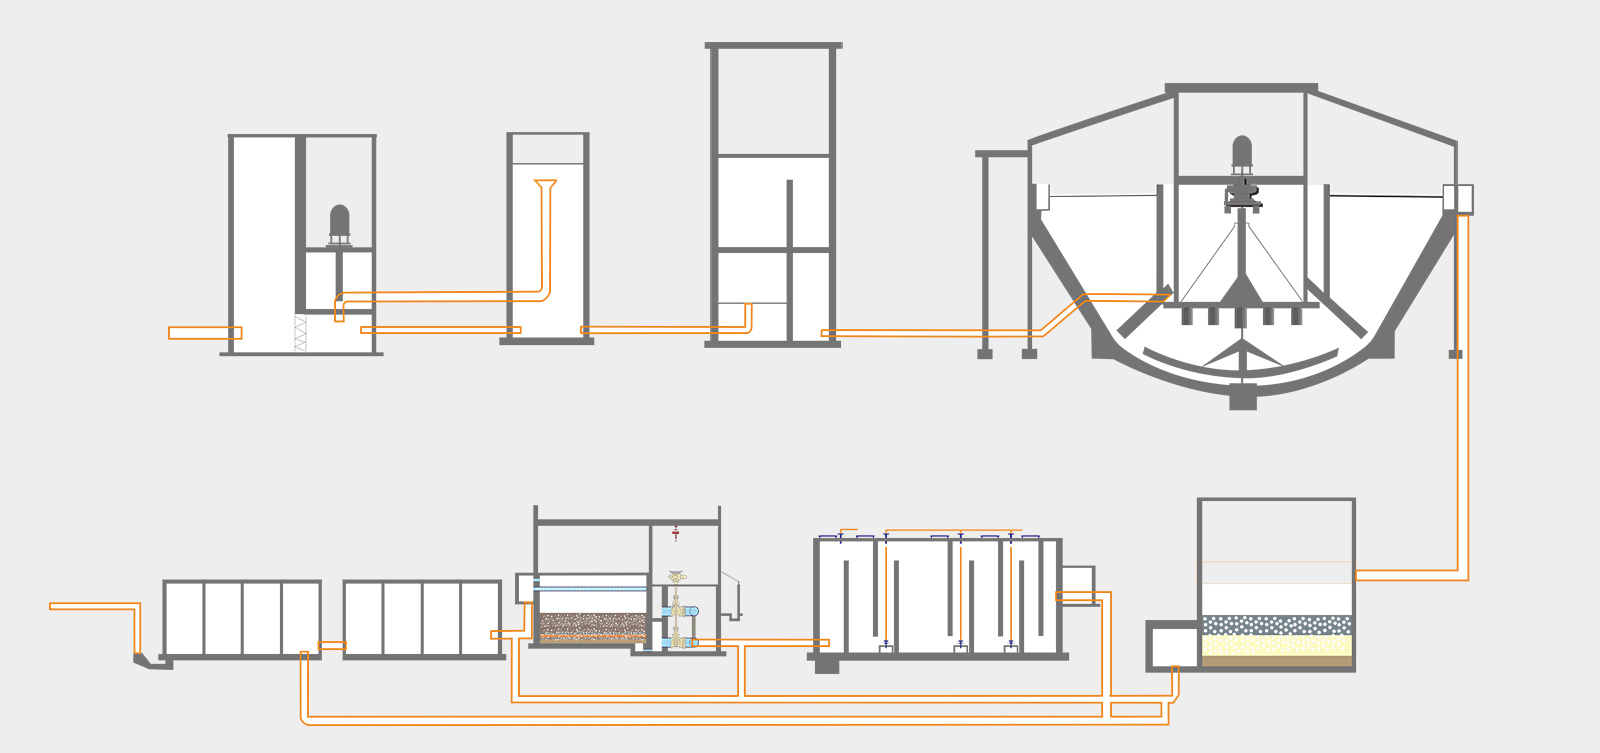
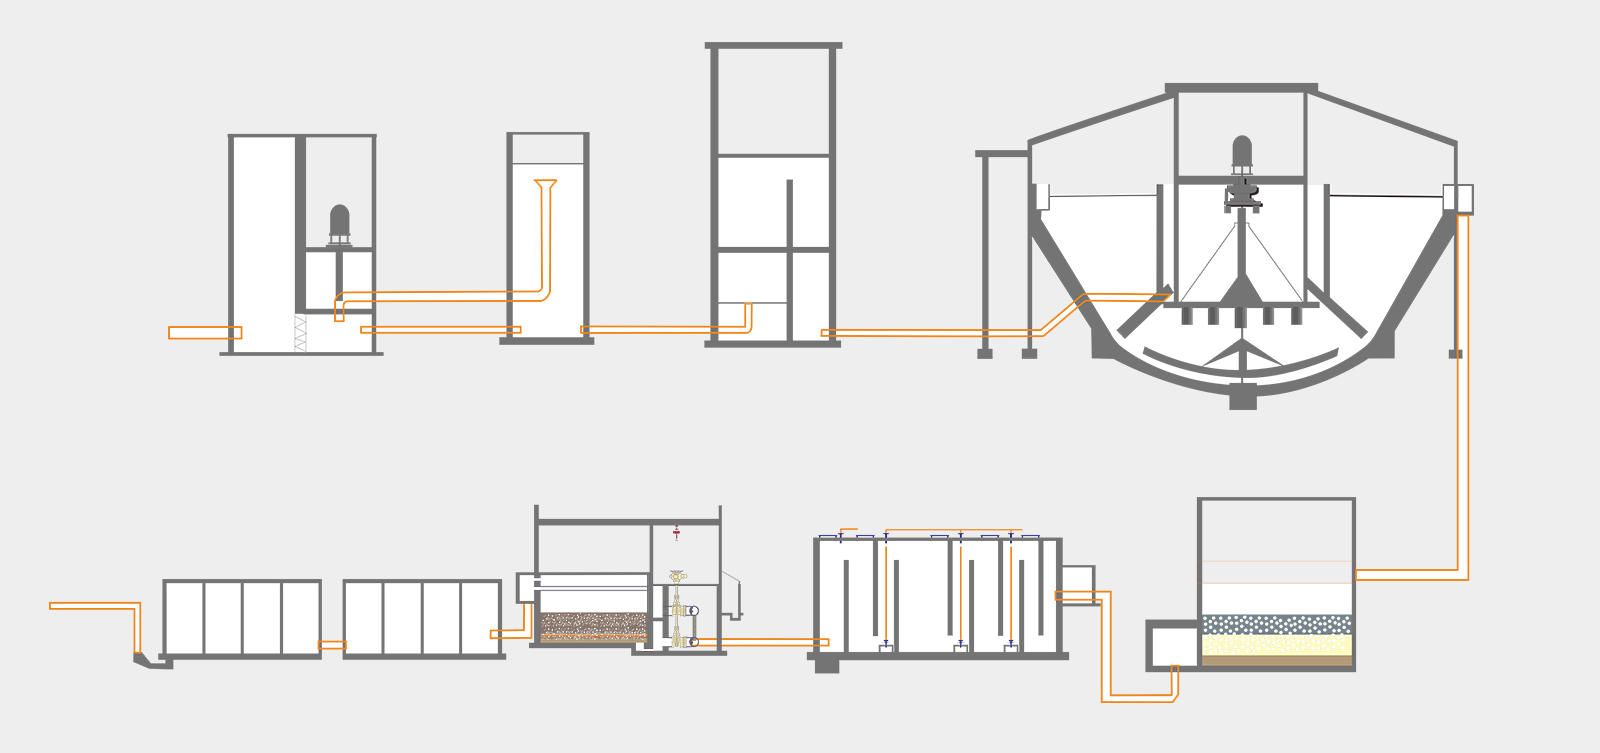
1.各构筑物及老工艺线图片修改； 2.设备维修虹吸滤池方案二动画。

diff --git a/WebRoot/js/fix.js b/WebRoot/js/fix.js
@@ -1224,10 +1224,12 @@ oCanvas.domReady(function () {
         GD35.advance();
 
         if((GD11.state==0)&&(GD1001.state==0)){
-    		
+//            console.log("GD30:");
+//    		console.log(GD30.state);
     		if(GD30.state!=0){
     		GD30.state=2;
     		setFMColorRed("FM018");
+//    		console.log(document.getElementById("FM018").src=='http://localhost:8080/ZLS-ITTC/image/y2-35x37.png');
 
     		document.getElementById("step_3").style.background = "rgba(194,215,245,0.5)";
     		document.getElementById("step_3_result").style.background = "rgba(194,215,245,0.5)";
@@ -1251,13 +1253,14 @@ oCanvas.domReady(function () {
         	//console.log(GD1001.state);
         	if(GD141.state!=0){
         		GD141.state=2;
+        		document.getElementById("step_6").style.background = "rgba(194,215,245,0.5)";
+        		document.getElementById("step_6_result").style.background = "rgba(194,215,245,0.5)";
+        		blinTwice("#step_6");
+        		blinTwice("#step_6_result");
         		}
         	setFMColorRed("FM019");
 
-    		document.getElementById("step_6").style.background = "rgba(194,215,245,0.5)";
-    		document.getElementById("step_6_result").style.background = "rgba(194,215,245,0.5)";
-    		blinTwice("#step_6");
-    		blinTwice("#step_6_result");
+    		
 
     		//GD141.state=2;
     	}
@@ -1276,7 +1279,7 @@ oCanvas.domReady(function () {
         
         if((GD26.state==0)&&(GD27.state==0)){
     		
-    		if(GD13.state!=0){
+    		if(GD13.state==1){
     		GD13.state=2;
     		setFMColorRed("FM017");
 
@@ -1292,34 +1295,35 @@ oCanvas.domReady(function () {
     		//console.log("GD30:");
     		//console.log(GD30.state);
     	}
-        if((GD13.state!=2)&&(GD13.state!=1)){
+        if((GD13.state==0)){//(GD13.state!=2)&&(GD13.state!=1)
         	//console.log(GD1001.state);
-        	if(GD141.state==1){
+        	if((GD141.state==1)){
         		setFMColorRed("FM019");
         		}
-        	if((GD141.state!=0)){
+        	if(document.getElementById("FM019").src=='http://localhost:8080/ZLS-ITTC/image/y2-35x37.png'){
         		GD141.state=2;
         		}
-        	
-        	
+//        	console.log("GD141:");
+//    		console.log(GD141.state);
 
     		document.getElementById("step_6").style.background = "rgba(194,215,245,0.5)";
     		document.getElementById("step_6_result").style.background = "rgba(194,215,245,0.5)";
 
     		//GD141.state=2;
     	}
-        if((GD26.state==1)&&(GD27.state==1)){    		
-    		if(GD13.state!=1)
-    		GD13.state=3;
-    		//console.log("GD30:");
-    		//console.log(GD30.state);
-    	}
-        if((GD13.state==1)&&(GD11.state==1)&&(GD30.state==1)){    		
-    		if(GD141.state!=1)
-    		GD141.state=3;
-    		//console.log("GD30:");
-    		//console.log(GD30.state);
-    	}
+//        if((GD26.state==1)&&(GD27.state==1)){    		
+//    		if(GD13.state!=1)
+//    		GD13.state=3;
+//    		//console.log("GD30:");
+//    		//console.log(GD30.state);
+//    	}
+//        if((GD13.state==1)&&(GD11.state==1)&&(GD30.state==1)){    		
+//    		if(GD141.state!=1)
+//    		GD141.state=3;
+//    		//console.log("GD30:");
+//    		//console.log(GD30.state);
+//    	}
+
         canvas.redraw();
     });
     GD01.paused=1;
@@ -1866,10 +1870,11 @@ oCanvas.domReady(function () {
     	//计时器控制阀门颜色和对应维修步骤变化情况
     	window.setTimeout(function(){              
     		setFMColorGreen("FM019");
-    		document.getElementById("step_1").style.background = "rgba(194,215,245,0.5)";
-    		document.getElementById("step_1_result").style.background = "rgba(194,215,245,0.5)";
-    		document.getElementById("step_2").style.background = "rgba(194,215,245,0.5)";
-    		document.getElementById("step_2_result").style.background = "rgba(194,215,245,0.5)";
+    		document.getElementById("step_6").style.background = "rgba(194,215,245,0.5)";
+    		document.getElementById("step_6_result").style.background = "rgba(194,215,245,0.5)";
+    		document.getElementById("step_5").style.background = "rgba(194,215,245,0.5)";
+    		document.getElementById("step_5_result").style.background = "rgba(194,215,245,0.5)";
+    		
          },300);
         window.setTimeout(function(){              
         	setFMColorGreen("FM018");
@@ -1880,10 +1885,10 @@ oCanvas.domReady(function () {
          },1000);
         window.setTimeout(function(){              
         	setFMColorGreen("FM016");
-    		document.getElementById("step_6").style.background = "rgba(194,215,245,0.5)";
-    		document.getElementById("step_6_result").style.background = "rgba(194,215,245,0.5)";
-    		document.getElementById("step_5").style.background = "rgba(194,215,245,0.5)";
-    		document.getElementById("step_5_result").style.background = "rgba(194,215,245,0.5)";
+        	document.getElementById("step_1").style.background = "rgba(194,215,245,0.5)";
+    		document.getElementById("step_1_result").style.background = "rgba(194,215,245,0.5)";
+    		document.getElementById("step_2").style.background = "rgba(194,215,245,0.5)";
+    		document.getElementById("step_2_result").style.background = "rgba(194,215,245,0.5)";
 //        	GD1001.state=3;
 //        	GD11.state=3;
          },1700);
@@ -1929,36 +1934,37 @@ oCanvas.domReady(function () {
     	//计时器控制阀门颜色和对应维修步骤变化情况
     	window.setTimeout(function(){              
     		setFMColorGreen("FM019");
-//    		GD141.state=3;
+    		GD141.state=3;
 //    		console.log("GD141:");
 //    		console.log(GD141.state);
-    		document.getElementById("step_1").style.background = "rgba(194,215,245,0.5)";
-    		document.getElementById("step_1_result").style.background = "rgba(194,215,245,0.5)";
-    		document.getElementById("step_2").style.background = "rgba(194,215,245,0.5)";
-    		document.getElementById("step_2_result").style.background = "rgba(194,215,245,0.5)";
-         },300);
-        window.setTimeout(function(){              
-        	setFMColorGreen("FM017");
-//        	GD13.state=3;
-    		document.getElementById("step_3").style.background = "rgba(194,215,245,0.5)";
-    		document.getElementById("step_3_result").style.background = "rgba(194,215,245,0.5)";
-    		document.getElementById("step_4").style.background = "rgba(194,215,245,0.5)";
-    		document.getElementById("step_4_result").style.background = "rgba(194,215,245,0.5)";
-         },1000);
-        window.setTimeout(function(){              
-        	setFMColorGreen("FM014");
-//        	GD26.state=3;
-//        	GD27.state=3;
     		document.getElementById("step_6").style.background = "rgba(194,215,245,0.5)";
     		document.getElementById("step_6_result").style.background = "rgba(194,215,245,0.5)";
     		document.getElementById("step_5").style.background = "rgba(194,215,245,0.5)";
     		document.getElementById("step_5_result").style.background = "rgba(194,215,245,0.5)";
+         },300);
+        window.setTimeout(function(){              
+        	setFMColorGreen("FM017");
+        	GD13.state=3;
+    		document.getElementById("step_3").style.background = "rgba(194,215,245,0.5)";
+    		document.getElementById("step_3_result").style.background = "rgba(194,215,245,0.5)";
+    		document.getElementById("step_4").style.background = "rgba(194,215,245,0.5)";
+    		document.getElementById("step_4_result").style.background = "rgba(194,215,245,0.5)";
+         },1500);
+        window.setTimeout(function(){              
+        	setFMColorGreen("FM014");
+        	GD26.state=3;
+        	GD27.state=3;
+        	document.getElementById("step_1").style.background = "rgba(194,215,245,0.5)";
+    		document.getElementById("step_1_result").style.background = "rgba(194,215,245,0.5)";
+    		document.getElementById("step_2").style.background = "rgba(194,215,245,0.5)";
+    		document.getElementById("step_2_result").style.background = "rgba(194,215,245,0.5)";
+    		
 //        	GD1001.state=3;
 //        	GD11.state=3;
-         },1700);
+         },2500);
         window.setTimeout(function(){              
         	clearAll();
-         },2700);
+         },4700);
 		
     }
     
@@ -2626,6 +2632,7 @@ oCanvas.domReady(function () {
     function clearAll(){
     	GD1001.state=3;
     	GD11.state=3;
+    	GD13.state=3;
     	GD26.state=3;
     	GD27.state=3;
     	canvas.children[2].fill=color_GD;

diff --git a/WebRoot/js/hhj.js b/WebRoot/js/hhj.js
@@ -16,13 +16,13 @@ oCanvas.domReady(function () {
  });
  var SC02=createSC({
      parent:canvas,
-     x:703,y:307,height:347,width:85,trail_flag:0,speed:speed_SC,color:color_SC
+     x:700,y:307,height:347,width:85,trail_flag:0,speed:speed_SC,color:color_SC
  });
 //添加背景图片
  var bg = canvas.display.image({
      x: 0,
      y: 0,
-     image: "image/hhj.png"
+     image: "image/hhj_v1.png"
  }).add();
 //绘制两条管道
  var GD01=createGD({
@@ -38,8 +38,8 @@ oCanvas.domReady(function () {
  var GD02=createGD({
      parent:canvas,
      cells:[
-         {x_cell: 785,y_cell: 628},
-         {x_cell: 1027, y_cell: 628}
+         {x_cell: 780,y_cell: 628},
+         {x_cell: 908, y_cell: 628}
      ],
      GDwidth:width_all,
      color:color_GD

diff --git a/WebRoot/js/VL.js b/WebRoot/js/VL.js
@@ -11,7 +11,7 @@ oCanvas.domReady(function () {
     var bg = canvas.display.image({
         x: 0,
         y: 0,
-        image: "image/vl.png"
+        image: "image/vl_v1.png"
     });
     canvas.addChild(bg);
     var speed_all=1.5,
@@ -65,7 +65,7 @@ oCanvas.domReady(function () {
     var fg = canvas.display.image({
         x: 0,
         y: 0,
-        image: "image/vl.png"
+        image: "image/vl_v1.png"
     });
     canvas.addChild(fg);
     var arrow_0=canvas.display.sprite({

diff --git a/WebRoot/js/hx.js b/WebRoot/js/hx.js
@@ -62,7 +62,7 @@ oCanvas.domReady(function () {
     var bg = canvas.display.image({
         x: 0,
         y: 0,
-        image: "image/hx_v.png"
+        image: "image/hx_v1.png"
     }).add();
 //绘制两条管道
     var GD01=createGD({

diff --git a/WebRoot/js/hxt.js b/WebRoot/js/hxt.js
@@ -25,7 +25,7 @@ oCanvas.domReady(function () {
  var bg = canvas.display.image({
      x: 0,
      y: 0,
-     image: "image/hxt.png"
+     image: "image/hxt_v1.png"
  }).add();
 //添加箭头
     var arrow_0=canvas.display.sprite({

diff --git a/WebRoot/js/cy.js b/WebRoot/js/cy.js
@@ -50,7 +50,7 @@ oCanvas.domReady(function () {
  var bg = canvas.display.image({
      x: 0,
      y: 0,
-     image: "image/cy.png"
+     image: "image/cy_v1.png"
  }).add();
 //画箭头
  var arrow_1=canvas.display.sprite({

diff --git a/WebRoot/js/JJC.js b/WebRoot/js/JJC.js
@@ -16,7 +16,7 @@ oCanvas.domReady(function () {
     var bg = canvas.display.image({
         x: 0,
         y: 0,
-        image: "image/JJC_bg1.png"
+        image: "image/jjc_v1.png"
     });
 
     var left_t=createSC({

diff --git a/WebRoot/js/QS.js b/WebRoot/js/QS.js
@@ -30,7 +30,7 @@ oCanvas.domReady(function () {
     var fg = canvas.display.image({
         x: 0,
         y: 0,
-        image: "image/QS_v.png"
+        image: "image/qs_v1.png"
     });
     canvas.addChild(fg);
 

diff --git a/WebRoot/js/qsc.js b/WebRoot/js/qsc.js
@@ -26,7 +26,7 @@ var SC03=createSC({
 var bg = canvas.display.image({
     x: 0,
     y: 0,
-    image: "image/qsc.png"
+    image: "image/qsc_v1.png"
 }).add();
 //绘制管道
 var GD01=createGD({
